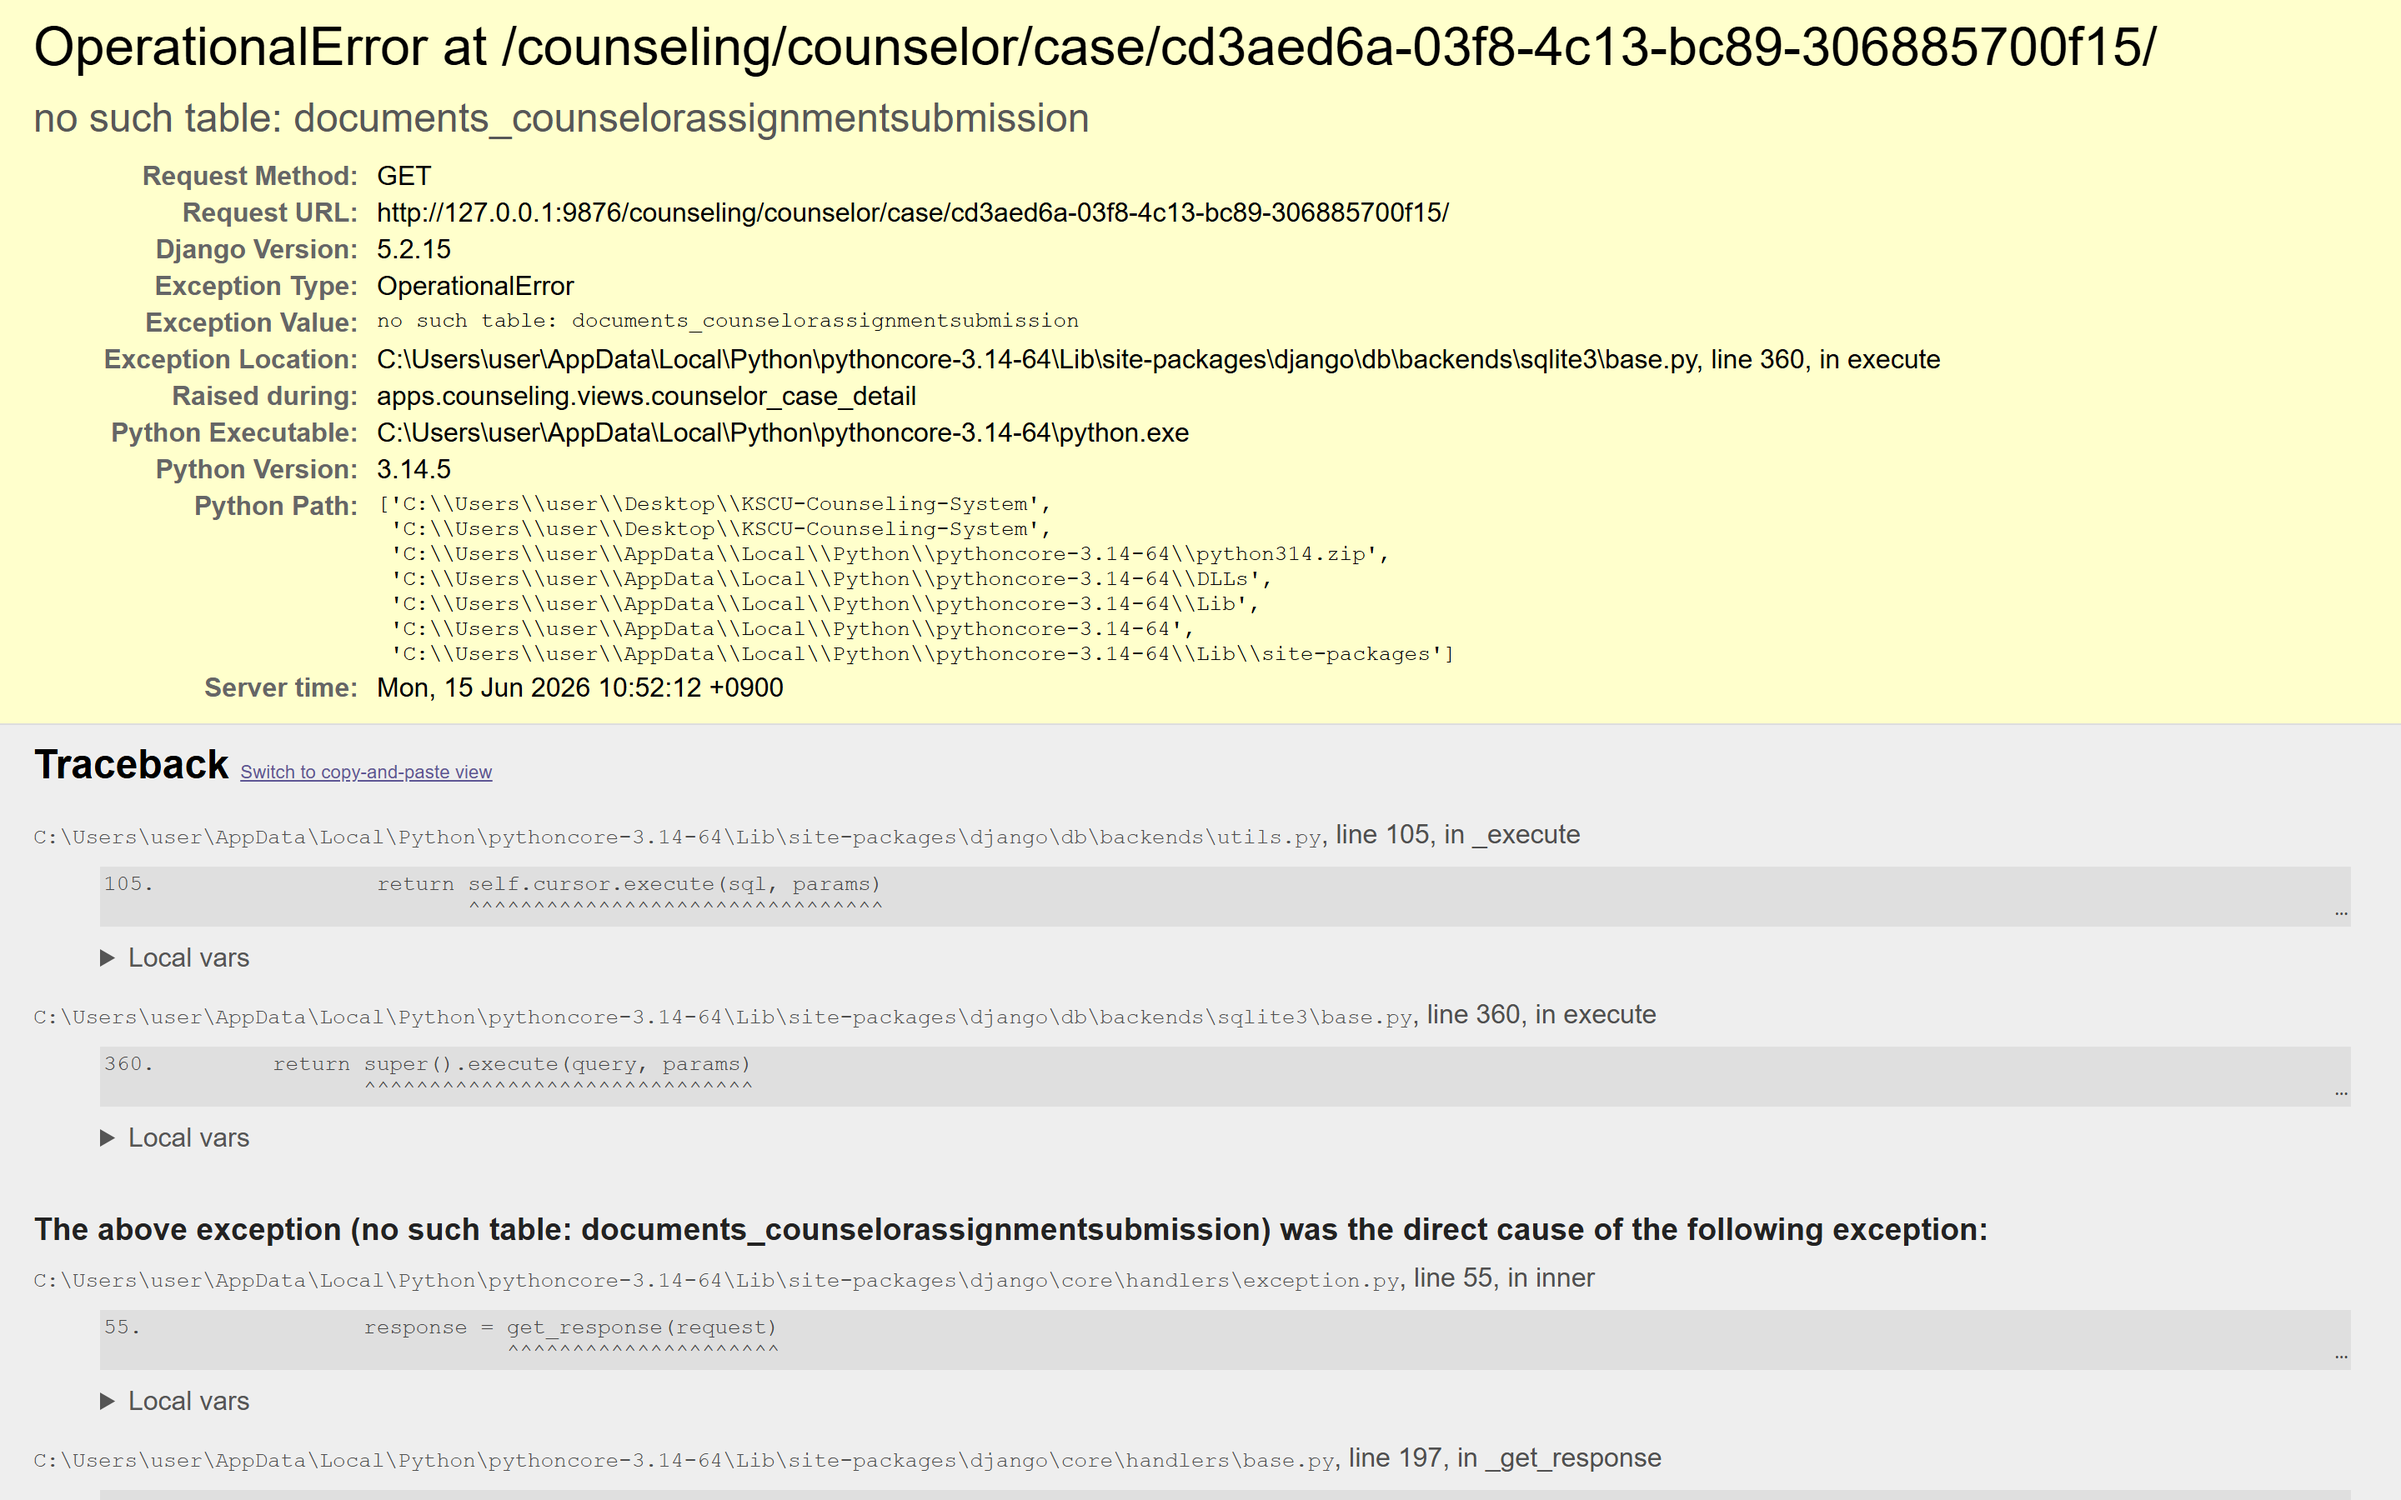
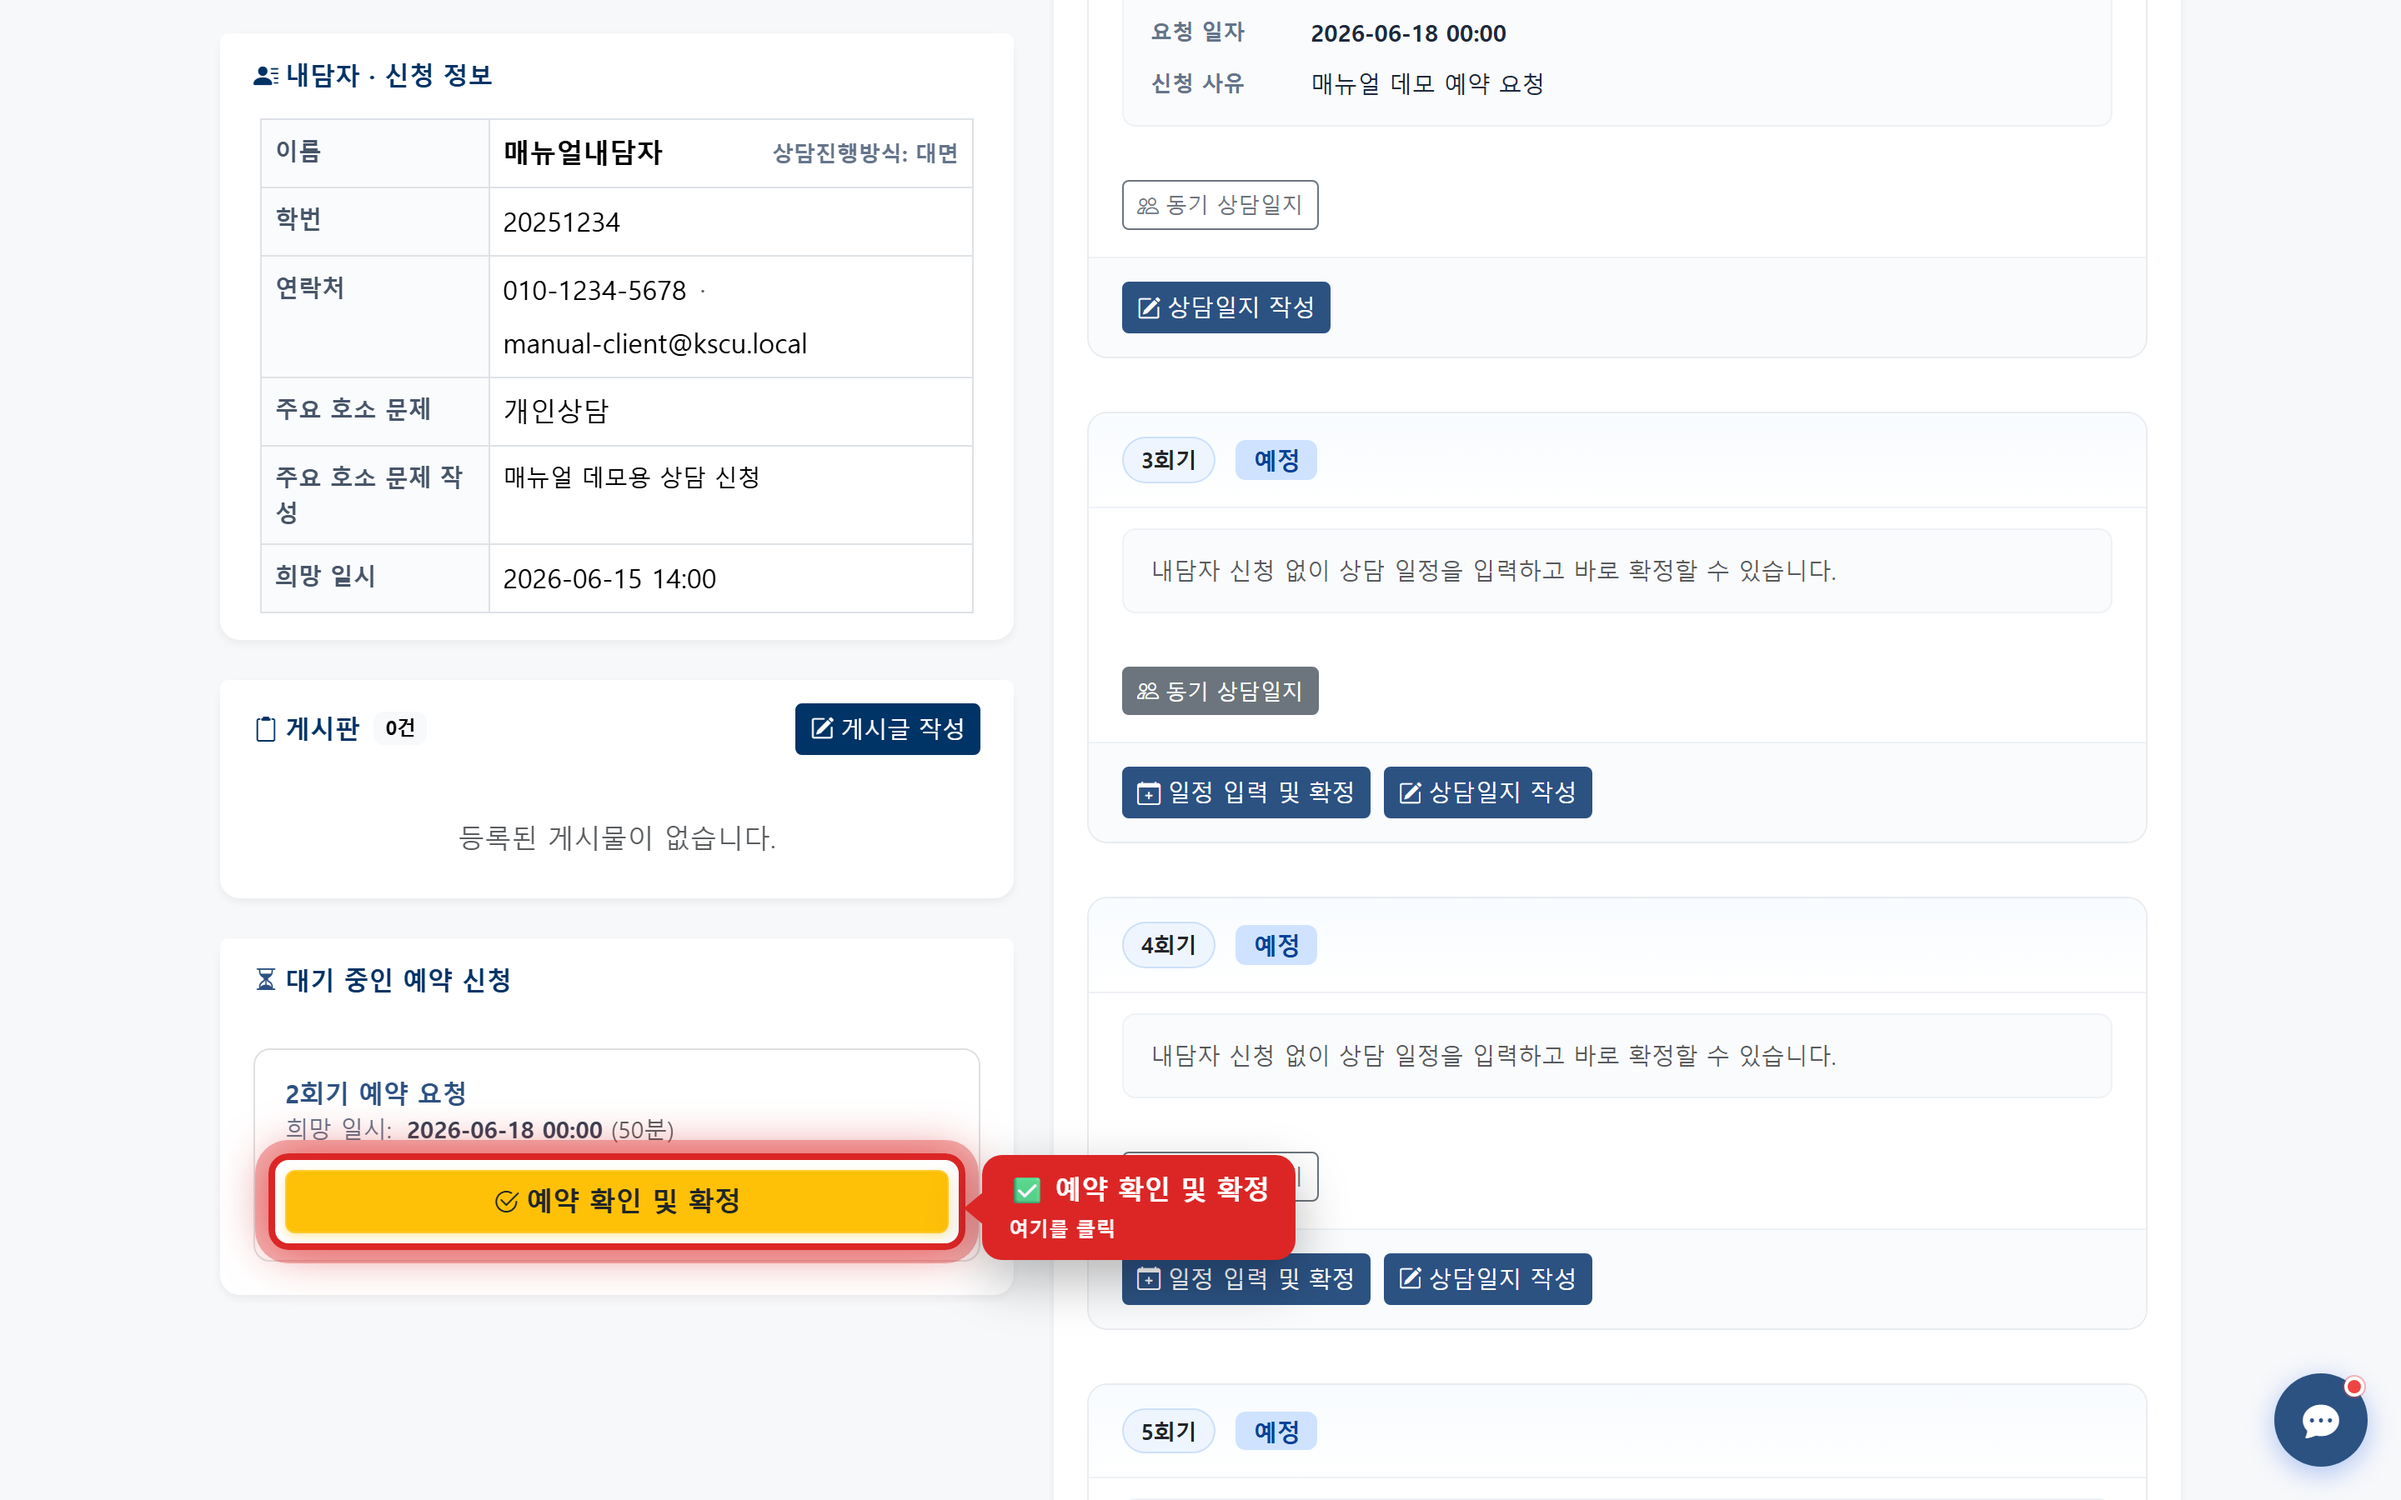
Fix counselor manual screenshot for pending appointment confirm button.

diff --git a/scripts/capture_manual_screenshots.py b/scripts/capture_manual_screenshots.py
@@ -62,6 +62,13 @@ def pick_free_port(start: int = DEFAULT_PORT, attempts: int = 20) -> int:
 
 
 def start_server(port: int) -> subprocess.Popen:
+    subprocess.run(
+        [sys.executable, "manage.py", "migrate", "--noinput"],
+        cwd=BASE_DIR,
+        check=True,
+        stdout=subprocess.DEVNULL,
+        stderr=subprocess.DEVNULL,
+    )
     proc = subprocess.Popen(
         [sys.executable, "manage.py", "runserver", f"127.0.0.1:{port}", "--noreload"],
         cwd=BASE_DIR,
